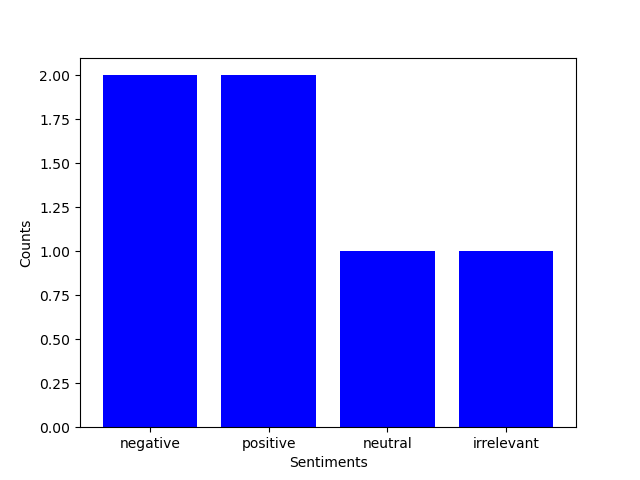
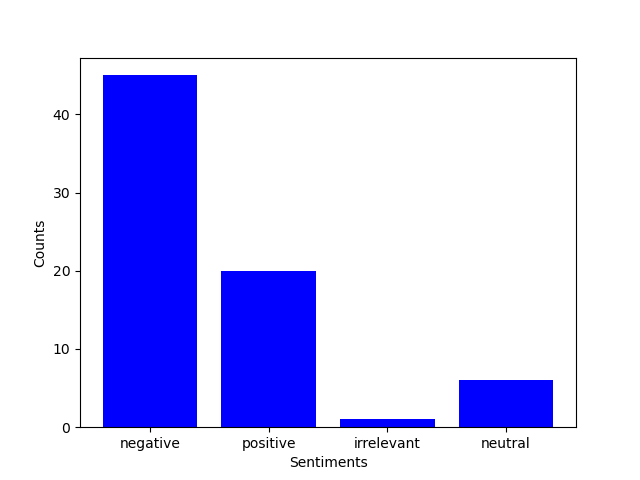
finish main.py and edit system_prompt in label.py

diff --git a/main.py b/main.py
@@ -3,25 +3,28 @@ from visualize import make_plot
 
 import json
 
-
 def run(filepath: str):
     """
-    INSERT DOCSTRING HERE
+    Run a comprehensive pipeline that gets reviews from a local file, get a list for sentiments, and plot a barchart that represents the sentiment ratio.
+
+    Args:
+        filepath (string): the path to the json file containing the review texts.
     """
     # open the json object
-    ...
+    with open(filepath) as f:
+        d = json.load(f)
 
     # extract the reviews from the json file
-    ...
+    reviews = d["results"]
 
     # get a list of sentiments for each line using get_sentiment
-    ...
+    sentiments = get_sentiment(reviews)
 
     # plot a visualization expressing sentiment ratio
-    ...
+    make_plot(sentiments)
 
     # return sentiments
-    ...
+    return sentiments
 
 
 if __name__ == "__main__":

diff --git a/label.py b/label.py
@@ -18,7 +18,6 @@ def get_sentiment(text: list) -> list:
         
     system_prompt = """
     You are tasked with reading a list of strings representing the customers' reviews for a product and produce a list of sentiments with only three possible values: "negative", "neutral", "positive", and "irrelevant". For example, given the input list below:
-    ```
     [
     "this ring smells weird, don't recomend",
     "I love this ring, I use it all the time when working out.",
@@ -27,11 +26,9 @@ def get_sentiment(text: list) -> list:
     "its a ring",
     "Bought this ring and it came broken. rip-off."
     ]
-    ```
+
     the output should be:
-    ```
     ["negative", "positive", "positive", "neutral", "irrelevant", "negative"]
-    ```
     """
 
     prompt = f"""
